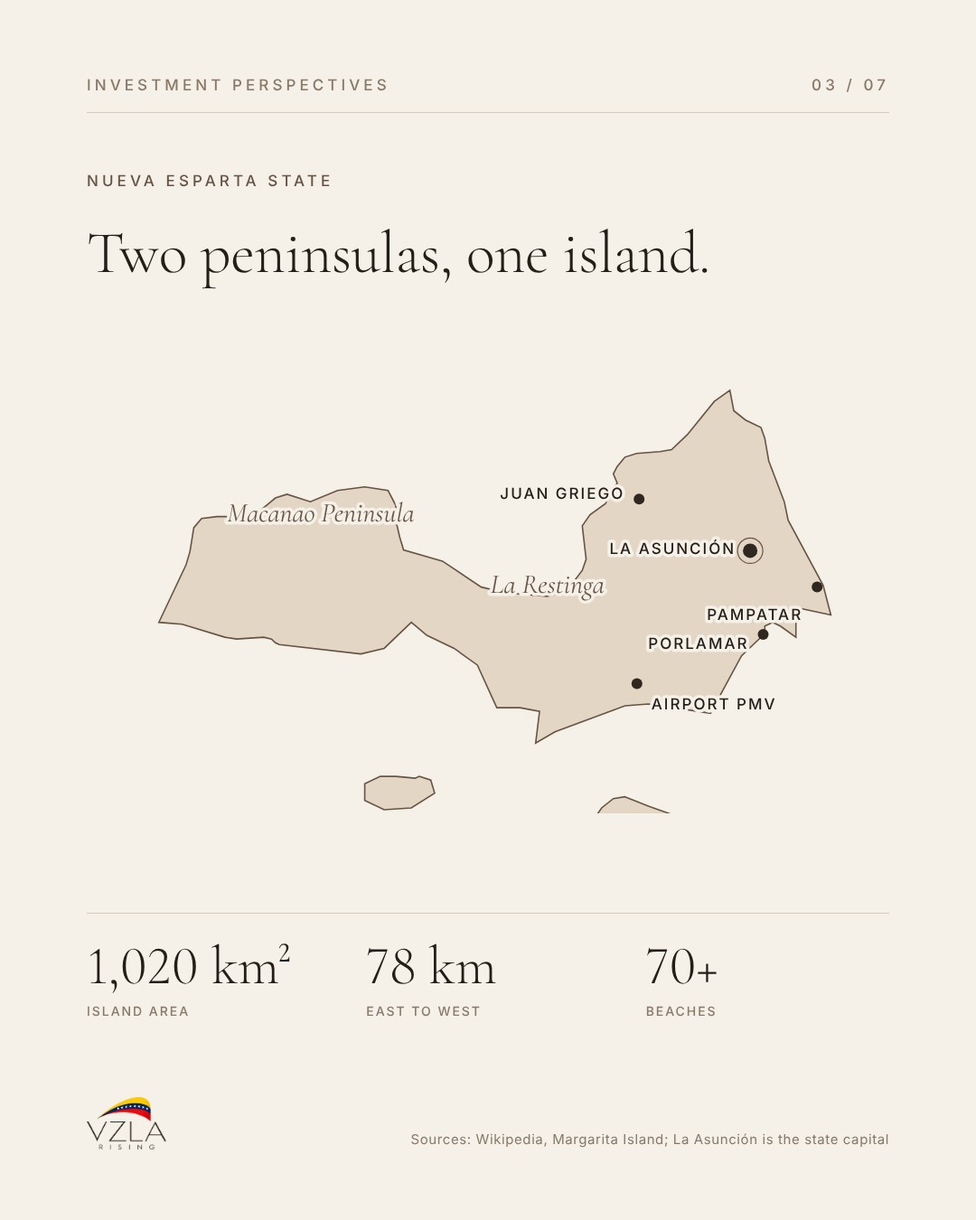
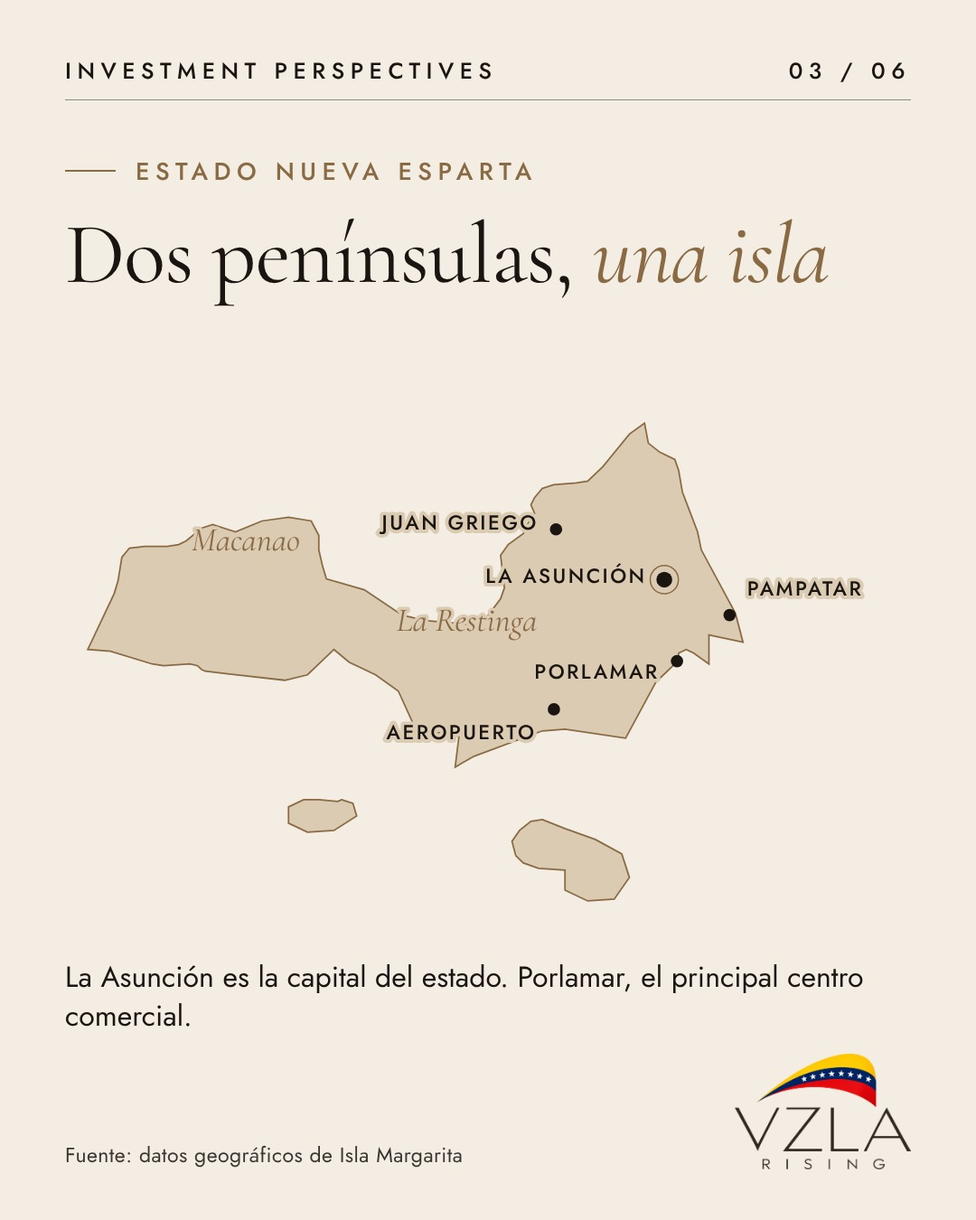
v3 carousels: full-bleed photos, hospitality type, Spanish-first captions
Claude-Session: https://claude.ai/code/session_01KPCgjeTyZ2Nz8Xz9vAXGjv

diff --git a/templates/engine-v3/posts2.py b/templates/engine-v3/posts2.py
@@ -1,0 +1,145 @@
+import asyncio
+from pathlib import Path
+from eco2 import *
+
+OUT = Path('/home/claude/build/out3')
+
+# ---------------- POST 01 - Venezuela Uncovered ----------------
+L1, T1 = 'Venezuela Uncovered', 6
+p1 = [
+ ('slide01', slide('photo', L1, 1, T1, f'''<div class=txt>
+  <div class=kick>Seis paisajes, un país</div>
+  <div class=h style="font-size:138px">Venezuela es <em>más</em><br>que los titulares</div>
+  <div class=p>Tepuyes, arrecifes, cumbres andinas y llanos sin fin.</div></div>''',
+  'Cerro Autana, Amazonas. Foto: Frank Araujo / Pexels', 'pexels-12693427-autana.jpg', '58% 50%')),
+ ('slide02', slide('photo', L1, 2, T1, f'''<div class=txt>
+  <div class=kick>Salto Ángel, Canaima</div>
+  <div class=num style="font-size:330px">979<small>m</small></div>
+  <div class=h style="font-size:84px;margin-top:34px">Una de las cascadas <em>más altas</em> del mundo</div>
+  <div class=p>807 m de caída libre desde el Auyán-tepui. Canaima es Patrimonio UNESCO desde 1994.</div></div>''',
+  'Fuentes: UNESCO; medición Robertson, 1949. Foto: Ederik Palencia Ferreira / Pexels', 'pexels-7360544-canaima.jpg', '50% 50%')),
+ ('slide03', slide('photo', L1, 3, T1, f'''<div class=txt>
+  <div class=kick>Archipiélago Los Roques</div>
+  <div class=num style="font-size:250px">221.120<small>ha</small></div>
+  <div class=h style="font-size:84px;margin-top:34px">Un parque nacional <em>de coral</em> desde 1972</div>
+  <div class=p>Unas 50 islas y cerca de 292 cayos. Humedal Ramsar desde 1996.</div></div>''',
+  'Fuente: Ramsar Sites Information Service. Foto: Fuka jaz / Pexels', 'pexels-18558367-losroques-aerial.jpg', '50% 22%')),
+ ('slide04', slide('photo', L1, 4, T1, f'''<div class=txt>
+  <div class=kick>Los Andes, Mérida</div>
+  <div class=num style="font-size:300px">4.978<small>m</small></div>
+  <div class=h style="font-size:84px;margin-top:34px">El Pico Bolívar, <em>el techo</em> de Venezuela</div>
+  <div class=p>Del nivel del mar a casi cinco kilómetros de altura, en un solo país.</div></div>''',
+  'Fuente: Pérez et al., Interciencia 2005 (GPS). Foto: Pedro Romero / Unsplash', 'unsplash-LoBZJg-390E-merida-valley.jpg', '50% 30%')),
+ ('slide05', slide('photo', L1, 5, T1, f'''<div class=txt>
+  <div class=kick>Los Llanos</div>
+  <div class=h style="font-size:128px">Sabanas hasta <em>el horizonte</em></div>
+  <div class=p>La tierra del llanero: ganado, ríos y cielos enormes entre los Andes y el Orinoco.</div></div>''',
+  'Elorza, Apure. Foto: Jean-Luc Crucifix / Unsplash', 'unsplash-19tQv51x4-A-llanos.jpg', '50% 50%')),
+ ('slide06', slide('cream', L1, 6, T1, f'''
+  <div style="position:absolute;left:72px;right:72px;top:160px">
+   <div class=kick>Uno de los 17 países megadiversos</div>
+   <div class=h style="font-size:96px">¿Cuál visitarías <em>primero?</em></div></div>
+  <div style="position:absolute;left:72px;top:420px">{venmap([('roques','Los Roques','start'),('margarita','Margarita','start'),('bolivar','Andes','end'),('llanos','Llanos','end'),('angel','Canaima','end'),('roraima','Roraima','start')])}</div>
+  <div style="position:absolute;left:72px;right:72px;top:1050px;font:400 32px/1.35 Jost">Cuéntanos en los comentarios y guarda el post para tu próximo viaje.</div>''',
+  'Fuentes: Conservation International; CIA World Factbook')),
+]
+
+# ---------------- POST 02 - Venezuela in Motion ----------------
+L2, T2 = 'Venezuela in Motion', 5
+p2 = [
+ ('slide01', slide('photo', L2, 1, T2, f'''<div class=txt>
+  <div class=kick>Negocios</div>
+  <div class=h style="font-size:146px">El capital <em>llega</em> a Caracas</div>
+  <div class=p>25 fondos, una fintech de US$100 millones y nuevas rutas aéreas. Qué se mueve y qué falta probar.</div></div>''',
+  'Caracas. Foto: Andy Art and design / Pexels', 'pexels-29518260-caracas-sunset.jpg', '50% 60%')),
+ ('slide02', slide('photo', L2, 2, T2, f'''<div class=txt>
+  <div class=kick>Startup Venezuela Summit</div>
+  <div class=num style="font-size:330px">25</div>
+  <div class=h style="font-size:84px;margin-top:30px">fondos de inversión en <em>la sexta edición</em></div>
+  <div class=p>Del 21 al 23 de octubre, inaugurada por Richard Branson. Unos 40 invitados internacionales, frente a 10 en 2023.</div></div>''',
+  'Fuente: Bloomberg Línea, oct. 2026 (cifras de los organizadores). Foto: Joaquim Pacheco / Pexels', 'pexels-38556235-caracas-aerial.jpg', '40% 50%')),
+ ('slide03', slide('cream', L2, 3, T2, f'''
+  <div style="position:absolute;left:72px;right:72px;top:170px">
+   <div class=kick>Fintech</div>
+   <div class=h style="font-size:96px">Cashea levantó</div>
+   <div class=num style="font-size:300px;margin-top:20px">US$100<small>M</small></div>
+   <div class=lab style="margin-top:30px">En 2026, en dos rondas</div>
+   <div style="display:flex;height:70px;margin-top:40px"><div style="width:40%;background:{EARTH}"></div><div style="width:60%;background:{INK}"></div></div>
+   <div style="display:flex;margin-top:18px;font:500 30px Jost"><div style="width:40%">Serie A · 40M<div style="font:400 26px Jost;opacity:.7">marzo</div></div><div style="width:60%">Serie B · 60M<div style="font:400 26px Jost;opacity:.7">junio</div></div></div>
+   <div class=p style="margin-top:56px">Más de <b>10 millones</b> de cuentas y <b>40.000</b> comercios aliados.</div></div>''',
+  'Fuente: Intelligent CIO, ago. 2026 (cifras de la empresa)').replace('Serie A · 40M','Serie A - 40M').replace('Serie B · 60M','Serie B - 60M')),
+ ('slide04', slide('photo', L2, 4, T2, f'''<div class=txt style="bottom:220px">
+  <div class=kick>Conectividad aérea</div>
+  <div class=h style="font-size:92px;margin-bottom:34px">Vuelven <em>los vuelos</em></div>
+  <div class=row><div style="flex:1"><div class=tag>Operando</div><div class=t>Qatar Airways, Doha - Caracas</div><div class=d>Desde el 22 de julio</div></div></div>
+  <div class=row><div style="flex:1"><div class=tag>Operando</div><div class=t>Avianca, Bogotá - Caracas</div><div class=d>Desde el 1 de septiembre</div></div></div>
+  <div class=row><div style="flex:1"><div class=tag>Anunciado</div><div class=t>Copa, Panamá - Margarita</div><div class=d>Desde el 26 de noviembre</div></div></div>
+  <div class=row><div style="flex:1"><div class=tag>Por confirmar</div><div class=t>United y JetBlue desde EE.UU.</div><div class=d>Pendientes de autorización</div></div></div></div>''',
+  'Fuente: Bloomberg Línea, 7 oct. 2026. Foto: Juan Carlos Fernández Alemán / Pexels', 'pexels-39879583-avila.jpg', '50% 30%',
+  veil='background:linear-gradient(180deg,rgba(12,9,6,.5) 0%,rgba(12,9,6,.15) 18%,rgba(12,9,6,.72) 42%,rgba(12,9,6,.92) 100%)')),
+ ('slide05', slide('dark', L2, 5, T2, f'''
+  <div style="position:absolute;left:72px;right:72px;top:170px">
+   <div class=kick>Nuestra lectura</div>
+   <div class=h style="font-size:100px;margin-bottom:46px">El impulso es real. <em>La debida diligencia</em> también.</div>
+   <div class=row><div class=n>01</div><div><div class=t>Cifras de empresas y organizadores</div><div class=d>Señales útiles, no datos auditados.</div></div></div>
+   <div class=row><div class=n>02</div><div><div class=t>Anunciado no es operativo</div><div class=d>Varias rutas esperan autorización.</div></div></div>
+   <div class=row><div class=n>03</div><div><div class=t>Cumplimiento primero</div><div class=d>Sanciones y asesoría legal en cada operación.</div></div></div>
+   <div class=h style="font-size:58px;margin-top:40px;color:{GOLD}"><em>¿Qué necesitarías ver para invertir?</em></div></div>''',
+  'No es asesoría de inversión')),
+]
+
+# ---------------- POST 03 - Investment Perspectives ----------------
+L3, T3 = 'Investment Perspectives', 6
+p3 = [
+ ('slide01', slide('photo', L3, 1, T3, f'''<div class=txt>
+  <div class=kick>Destinos</div>
+  <div class=h style="font-size:140px">Isla Margarita, ¿el Caribe <em>subestimado?</em></div>
+  <div class=p>Playas, historia de puerto libre y un nuevo vuelo a Panamá.</div></div>''',
+  'Isla Margarita. Foto: RITRATTO VISUAL / Pexels', 'pexels-32699741-margarita-aerial.jpg', '50% 60%')),
+ ('slide02', slide('photo', L3, 2, T3, f'''<div class=txt>
+  <div class=kick>Pampatar, Nueva Esparta</div>
+  <div class=num style="font-size:300px">70+</div>
+  <div class=h style="font-size:84px;margin-top:30px">playas en <em>78 km</em> de isla</div>
+  <div class=p>1.020 km² y una larga tradición de destino turístico venezolano.</div></div>''',
+  'Fuente: datos geográficos de Isla Margarita. Foto: Vika Glitter / Pexels', 'pexels-26241556-pampatar.jpg', '30% 50%')),
+ ('slide03', slide('cream', L3, 3, T3, f'''
+  <div style="position:absolute;left:72px;right:72px;top:170px">
+   <div class=kick>Estado Nueva Esparta</div>
+   <div class=h style="font-size:96px">Dos penínsulas, <em>una isla</em></div></div>
+  <div style="position:absolute;left:72px;top:440px">{margmap([('asuncion','La Asunción','end',-4,'cap'),('porlamar','Porlamar','end',12,'dot'),('pampatar','Pampatar','start',-30,'dot'),('juangriego','Juan Griego','end',-8,'dot'),('airport','Aeropuerto','end',26,'dot'),('macanao','Macanao','',0,'area'),('restinga','La Restinga','',12,'area')])}</div>
+  <div style="position:absolute;left:72px;right:72px;top:1060px;font:400 32px/1.35 Jost">La Asunción es la capital del estado. Porlamar, el principal centro comercial.</div>''',
+  'Fuente: datos geográficos de Isla Margarita')),
+ ('slide04', slide('photo', L3, 4, T3, f'''<div class=txt>
+  <div class=kick>Conectividad</div>
+  <div class=num style="font-size:300px">3<small>vuelos / semana</small></div>
+  <div class=h style="font-size:84px;margin-top:30px">Panamá - Porlamar <em>desde el 26 de noviembre</em></div>
+  <div class=p>Copa conecta la isla con su hub regional: martes, jueves y domingo. Ruta anunciada.</div></div>''',
+  'Fuentes: El Diario, ago. 2026; Bloomberg Línea, oct. 2026. Foto: RITRATTO VISUAL / Pexels', 'pexels-32699745-margarita-lighthouse.jpg', '50% 20%')),
+ ('slide05', slide('photo', L3, 5, T3, f'''<div class=txt style="bottom:220px">
+  <div class=kick>Hipótesis, no pronósticos</div>
+  <div class=h style="font-size:92px;margin-bottom:34px">Dónde podría estar <em>la oportunidad</em></div>
+  <div class=row><div class=n>01</div><div><div class=t>Reposicionar antes que construir</div><div class=d>Renovar hoteles existentes.</div></div></div>
+  <div class=row><div class=n>02</div><div><div class=t>Boutique de baja densidad</div><div class=d>Macanao y La Restinga, con el paisaje.</div></div></div>
+  <div class=row><div class=n>03</div><div><div class=t>Puerta al Caribe</div><div class=d>Itinerarios con Los Roques.</div></div></div></div>''',
+  'Análisis editorial VZLA Rising. Foto: RITRATTO VISUAL / Pexels', 'pexels-32690921-nueva-esparta.jpg', '55% 50%',
+  veil='background:linear-gradient(180deg,rgba(12,9,6,.5) 0%,rgba(12,9,6,.15) 18%,rgba(12,9,6,.72) 45%,rgba(12,9,6,.92) 100%)')),
+ ('slide06', slide('dark', L3, 6, T3, f'''
+  <div style="position:absolute;left:72px;right:72px;top:170px">
+   <div class=kick>Antes de invertir</div>
+   <div class=h style="font-size:100px;margin-bottom:40px">Seis cosas <em>que verificar</em></div>
+   <div class=row style="padding:20px 0"><div class=n>01</div><div class=t>Títulos de propiedad y registro</div></div>
+   <div class=row style="padding:20px 0"><div class=n>02</div><div class=t>Sanciones y cumplimiento</div></div>
+   <div class=row style="padding:20px 0"><div class=n>03</div><div class=t>Agua y electricidad</div></div>
+   <div class=row style="padding:20px 0"><div class=n>04</div><div class=t>Zonificación costera y permisos</div></div>
+   <div class=row style="padding:20px 0"><div class=n>05</div><div class=t>Moneda, pagos y repatriación</div></div>
+   <div class=row style="padding:20px 0"><div class=n>06</div><div class=t>Demanda real: llegadas y ocupación</div></div>
+   <div class=h style="font-size:56px;margin-top:30px;color:{GOLD}"><em>¿Qué haría a Margarita invertible para ti?</em></div></div>''',
+  'Checklist editorial. No es asesoría legal ni financiera')),
+]
+
+POSTS = {'post01': p1, 'post02': p2, 'post03': p3}
+async def main():
+    for k, v in POSTS.items():
+        await render(v, OUT / k)
+        sheet(OUT / k, [n for n, _ in v], OUT / f'{k}_sheet.jpg')
+asyncio.run(main())

diff --git a/templates/engine-v3/eco2.py b/templates/engine-v3/eco2.py
@@ -1,0 +1,116 @@
+"""VZLA Rising v3 - hospitality editorial carousel. 1080x1350, phone-first.
+Full-bleed real photo + gradient veil, text anchored low, Cormorant headlines, Jost text."""
+import asyncio, json
+from pathlib import Path
+from playwright.async_api import async_playwright
+
+LOGO = Path('/home/claude/brand/logo')
+PH = Path('/home/claude/vzla-rising-instagram-content-media-repository/photos')
+F = '/home/claude/build/node_modules/@fontsource'
+MAPS = json.load(open('/home/claude/build/maps.json'))
+GOLD, INK, CREAM, ESP, EARTH = '#E9C46A', '#1A1511', '#F3EDE3', '#231C16', '#8A6A44'
+
+def ff(fam, w, file, style='normal'):
+    return f"@font-face{{font-family:'{fam}';font-weight:{w};font-style:{style};src:url('file://{F}/{file}')}}"
+
+CSS = '\n'.join([
+ ff('Cormorant', 300, 'cormorant-garamond/files/cormorant-garamond-latin-300-normal.woff2'),
+ ff('Cormorant', 400, 'cormorant-garamond/files/cormorant-garamond-latin-400-normal.woff2'),
+ ff('Cormorant', 500, 'cormorant-garamond/files/cormorant-garamond-latin-500-normal.woff2'),
+ ff('Cormorant', 400, 'cormorant-garamond/files/cormorant-garamond-latin-400-italic.woff2', 'italic'),
+ ff('Cormorant', 300, 'cormorant-garamond/files/cormorant-garamond-latin-300-italic.woff2', 'italic'),
+ ff('Jost', 300, 'jost/files/jost-latin-300-normal.woff2'),
+ ff('Jost', 400, 'jost/files/jost-latin-400-normal.woff2'),
+ ff('Jost', 500, 'jost/files/jost-latin-500-normal.woff2'),
+]) + """
+*{margin:0;padding:0;box-sizing:border-box;font-variant-numeric:lining-nums;font-feature-settings:'lnum' 1}
+html,body{width:1080px;height:1350px}
+body{font-family:'Jost',sans-serif;-webkit-font-smoothing:antialiased}
+.s{position:relative;width:1080px;height:1350px;overflow:hidden;color:var(--fg);background:var(--bg)}
+.bg{position:absolute;inset:0;background-size:cover}
+.veil{position:absolute;inset:0;background:linear-gradient(180deg,rgba(12,9,6,.50) 0%,rgba(12,9,6,0) 14%,rgba(12,9,6,.38) 28%,rgba(12,9,6,.70) 48%,rgba(12,9,6,.84) 72%,rgba(12,9,6,.92) 100%)}
+.top{position:absolute;top:60px;left:72px;right:72px;display:flex;justify-content:space-between;
+  font:500 25px 'Jost';letter-spacing:.26em;text-transform:uppercase;z-index:3}
+.top.ph{text-shadow:0 1px 14px rgba(0,0,0,.45)}
+.rule{position:absolute;top:110px;left:72px;right:72px;height:1px;background:var(--fg);opacity:.45;z-index:3}
+.foot{position:absolute;left:72px;right:72px;bottom:56px;display:flex;justify-content:space-between;align-items:flex-end;z-index:3}
+.foot img{height:128px;display:block}
+.src{font:400 23px/1.35 'Jost';letter-spacing:.02em;opacity:.85;max-width:640px}
+.txt{position:absolute;left:72px;right:72px;bottom:240px;z-index:2}
+.kick{font:500 27px 'Jost';letter-spacing:.24em;text-transform:uppercase;color:var(--acc);margin-bottom:26px}
+.h{font-family:'Cormorant',serif;font-weight:400;line-height:.98;letter-spacing:-.012em}
+.h em{font-style:italic;color:var(--acc)}
+.num{font-family:'Cormorant',serif;font-weight:300;line-height:.8;letter-spacing:-.035em}
+.num small{font-size:.36em;letter-spacing:0;margin-left:10px}
+.p{font:400 40px/1.36 'Jost';margin-top:30px;max-width:900px}
+.p b{font-weight:500;color:var(--acc)}
+.ph .h,.ph .num,.ph .p{text-shadow:0 2px 24px rgba(0,0,0,.35)}
+.lab{font:500 24px/1.3 'Jost';letter-spacing:.18em;text-transform:uppercase}
+.row{display:flex;gap:28px;align-items:baseline;padding:26px 0;border-top:1px solid var(--line)}
+.row .n{font:300 54px 'Cormorant';color:var(--acc);width:70px;flex:none}
+.row .t{font:500 38px/1.25 'Jost'}
+.row .d{font:400 30px/1.35 'Jost';opacity:.85;margin-top:6px}
+.ph .kick{color:#fff;text-shadow:0 1px 16px rgba(0,0,0,.6)}
+.kick:before{content:'';display:inline-block;width:56px;height:2px;background:var(--acc);vertical-align:middle;margin-right:22px;position:relative;top:-4px}
+.tag{font:500 22px 'Jost';letter-spacing:.18em;text-transform:uppercase;color:var(--acc);margin-bottom:8px}
+"""
+
+THEME = {
+ 'photo': dict(bg='#111', fg='#FFFFFF', acc=GOLD, line='rgba(255,255,255,.35)', logo='white-colorflag'),
+ 'dark':  dict(bg=ESP, fg='#F6F1EA', acc=GOLD, line='rgba(246,241,234,.22)', logo='white-colorflag'),
+ 'cream': dict(bg=CREAM, fg=INK, acc=EARTH, line='rgba(26,21,17,.18)', logo='espresso-colorflag'),
+}
+
+def slide(theme, label, n, total, inner, src='', photo=None, pos='50% 50%', veil=None):
+    t = THEME[theme]
+    vars_ = f"--bg:{t['bg']};--fg:{t['fg']};--acc:{t['acc']};--line:{t['line']}"
+    bg = ''
+    if photo:
+        bg = f'<div class=bg style="background-image:url(\'file://{PH / photo}\');background-position:{pos}"></div>'
+        bg += f'<div class=veil{"" if not veil else ""} style="{veil or ""}"></div>'
+    cls = 's ph' if photo else 's'
+    return f"""<!doctype html><html><head><meta charset=utf-8><style>{CSS}</style></head><body>
+<div class="{cls}" style="{vars_}">{bg}
+<div class="top{' ph' if photo else ''}"><span>{label}</span><span>{n:02d} / {total:02d}</span></div><div class=rule></div>
+{inner}
+<div class=foot><div class=src>{src}</div><img src="file://{LOGO}/vzla-rising-wordmark-{t['logo']}.png"></div>
+</div></body></html>"""
+
+def venmap(marks, w=936, h=640):
+    m = MAPS['ven']; out = ''
+    for key, label, anchor in marks:
+        x, y = m['pts'][key]; tx = x + (26 if anchor == 'start' else -26)
+        out += f'<circle cx="{x}" cy="{y}" r="9" fill="{INK}"/><circle cx="{x}" cy="{y}" r="17" fill="none" stroke="{EARTH}" stroke-width="1.5"/>'
+        out += f'<text x="{tx}" y="{y+8}" text-anchor="{anchor}" font-family="Jost" font-weight="500" font-size="25" letter-spacing="3" fill="{INK}" stroke="{CREAM}" stroke-width="8" paint-order="stroke" stroke-linejoin="round">{label.upper()}</text>'
+    return f'''<svg width="{w}" height="{h}" viewBox="40 90 820 560"><path d="{m['nb']}" fill="#E7DED1" stroke="#D6C8B4" stroke-width="1"/>
+<path d="{m['d']}" fill="#DCCBB3" stroke="{EARTH}" stroke-width="1.8"/>{out}</svg>'''
+
+def margmap(marks, w=936, h=560):
+    m = MAPS['marg']; out = ''
+    for key, label, anchor, dy, style in marks:
+        x, y = m['pts'][key]
+        if style == 'area':
+            out += f'<text x="{x}" y="{y+dy}" text-anchor="middle" font-family="Cormorant" font-style="italic" font-size="38" fill="{EARTH}" stroke="#DCCBB3" stroke-width="7" paint-order="stroke">{label}</text>'; continue
+        tx = x + (20 if anchor == 'start' else -20)
+        out += f'<circle cx="{x}" cy="{y}" r="{9 if style=="cap" else 7}" fill="{INK}"/>'
+        if style == 'cap': out += f'<circle cx="{x}" cy="{y}" r="16" fill="none" stroke="{EARTH}" stroke-width="1.5"/>'
+        out += f'<text x="{tx}" y="{y+8+dy}" text-anchor="{anchor}" font-family="Jost" font-weight="500" font-size="23" letter-spacing="2.5" fill="{INK}" stroke="#DCCBB3" stroke-width="8" paint-order="stroke" stroke-linejoin="round">{label.upper()}</text>'
+    return f'''<svg width="{w}" height="{h}" viewBox="50 170 960 440"><path d="{m['d']}" fill="#DCCBB3" stroke="{EARTH}" stroke-width="1.8"/>{out}</svg>'''
+
+async def render(jobs, outdir):
+    outdir.mkdir(parents=True, exist_ok=True)
+    async with async_playwright() as p:
+        b = await p.chromium.launch(executable_path='/usr/bin/google-chrome')
+        pg = await b.new_page(viewport={'width': 1080, 'height': 1350})
+        for name, h in jobs:
+            f = outdir / f'{name}.html'; f.write_text(h)
+            await pg.goto('file://' + str(f)); await pg.evaluate('document.fonts.ready'); await pg.wait_for_timeout(200)
+            await pg.screenshot(path=str(outdir / f'{name}.jpg'), type='jpeg', quality=92)
+        await b.close()
+
+def sheet(outdir, names, path):
+    from PIL import Image
+    ims = [Image.open(outdir / f'{n}.jpg').resize((432, 540)) for n in names]
+    s = Image.new('RGB', (440 * len(ims) - 8, 540), 'white')
+    for i, im in enumerate(ims): s.paste(im, (i * 440, 0))
+    s.save(path, quality=88)

diff --git a/2026-11/post03_isla_margarita/caption.md b/2026-11/post03_isla_margarita/caption.md
@@ -1,28 +1,24 @@
-# Post 03 - Isla Margarita: An Underrated Caribbean Destination?
+# Post 03 - Isla Margarita, ¿el Caribe subestimado?
 
-Pillar: Investment Perspectives - Publication: Fri 6 Nov 2026, 18:00 Europe/Rome (12:00 Miami)
+Pillar: Investment Perspectives - Fri 6 Nov 2026, 18:00 Europe/Rome (12:00 Miami) - 6 slides
 
 ## Caption
 
-78 km of island, more than 70 beaches, and a new link to Panama from 26 November.
+Más de 70 playas en 78 km de isla, y un nuevo vuelo a Panamá desde el 26 de noviembre. 🇻🇪
 
-Isla Margarita has long been Venezuela's best-known beach destination, with a free-port history dating back to the 1970s. Copa Airlines plans three weekly flights between Panama City and Porlamar, connecting the island to one of the region's main hubs.
+Isla Margarita es desde hace décadas el gran destino de playa de Venezuela, con historia de puerto libre. Copa anunció tres vuelos semanales entre Panamá y Porlamar, que conectan la isla con uno de los principales hubs de la región.
 
-Where could the opportunity be? Our hypotheses: repositioning existing hotels before building new ones, low-density nature stays around Macanao and La Restinga, and itineraries that combine Margarita with Los Roques.
+¿Dónde podría estar la oportunidad? Nuestras hipótesis: reposicionar hoteles existentes antes que construir, estancias boutique de baja densidad en Macanao y La Restinga, e itinerarios que unan Margarita con Los Roques.
 
-Before any of that, the basics: land title, sanctions compliance, water and power, permits, currency and real demand data.
-
-What would make Margarita investable for you?
-
-🇻🇪
-
-Isla Margarita: 78 km, más de 70 playas y, desde el 26 de noviembre, vuelos con Panamá (Copa, tres por semana). Vemos oportunidades en reposicionar hoteles existentes y en estancias de baja densidad en Macanao y La Restinga. Antes, verificar títulos, sanciones, servicios, permisos y datos reales de demanda.
+Antes de todo, lo básico: títulos, sanciones, servicios, permisos, moneda y datos reales de demanda.
 
 ¿Qué haría a Margarita invertible para ti?
 
-#IslaMargarita #HospitalityInvestment #Venezuela
+EN | 70+ beaches, 78 km of island and a new Panama link from 26 November. Reposition before building, low-density boutique stays, and due diligence first.
+
+#IslaMargarita #Hospitality #Venezuela
 
 ## First comment
 
-Sources: Margarita Island geography (Wikipedia); El Diario, Aug 2026 and Bloomberg Línea, Oct 2026 (Copa Panama-Porlamar route, announced). Hypotheses and checklist are VZLA Rising editorial analysis, not investment, legal or financial advice.
-Photos: RITRATTO VISUAL, Vika Glitter (Pexels).
+Fuentes / Sources: datos geográficos de Isla Margarita (Wikipedia); El Diario, ago. 2026 y Bloomberg Línea, oct. 2026 (ruta Copa Panamá-Porlamar, anunciada). Hipótesis y checklist: análisis editorial VZLA Rising, no es asesoría de inversión, legal ni financiera.
+Fotos: RITRATTO VISUAL, Vika Glitter (Pexels).

diff --git a/2026-11/post02_capital_comes_to_caracas/caption.md b/2026-11/post02_capital_comes_to_caracas/caption.md
@@ -1,32 +1,24 @@
-# Post 02 - Capital comes to Caracas
+# Post 02 - El capital llega a Caracas
 
-Pillar: Venezuela in Motion - Publication: Wed 4 Nov 2026, 18:00 Europe/Rome (12:00 Miami)
+Pillar: Venezuela in Motion - Wed 4 Nov 2026, 18:00 Europe/Rome (12:00 Miami) - 5 slides
 
 ## Caption
 
-Twenty-five investment funds gathered in Caracas in October.
+25 fondos de inversión se reunieron en Caracas en octubre. 🇻🇪
 
-The sixth Startup Venezuela Summit (21-23 October) was opened by Richard Branson and, according to the organisers, brought around 40 international guests, up from 10 at the first edition in 2023.
+La sexta edición del Startup Venezuela Summit (21 al 23 de octubre) fue inaugurada por Richard Branson y reunió, según los organizadores, a unos 40 invitados internacionales, frente a 10 en 2023.
 
-The money is not only talk. Fintech Cashea raised US$100 million in 2026 across two rounds and reports more than 10 million consumer accounts.
+El dinero no es solo conversación: la fintech Cashea levantó US$100 millones en 2026 y reporta más de 10 millones de cuentas. Y vuelven los vuelos: Qatar Airways y Avianca ya operan a Caracas, Copa unirá Panamá con Margarita desde el 26 de noviembre.
 
-Air links are returning too. Qatar Airways and Avianca already fly to Caracas, Copa plans to connect Panama with Margarita from 26 November, while other US routes still await approvals.
+Nuestra lectura: el impulso es real, pero muchas cifras vienen de empresas y organizadores. Primero, la debida diligencia.
 
-Our read: the momentum is real, but most figures come from companies and organisers. Due diligence and compliance come first.
+¿Qué necesitarías ver para invertir en Venezuela?
 
-What would you need to see before investing in Venezuela?
-
-🇻🇪
-
-Veinticinco fondos de inversión se reunieron en Caracas en octubre, en la sexta edición del Startup Venezuela Summit, inaugurada por Richard Branson. Cashea levantó US$100 millones en 2026 y vuelven rutas aéreas, aunque algunas siguen pendientes de aprobación.
-
-El impulso es real. La debida diligencia, también.
-
-¿Qué necesitarías ver antes de invertir en Venezuela?
+EN | 25 investment funds met in Caracas in October. Cashea raised US$100M in 2026 and air links are returning. Momentum is real; due diligence comes first.
 
 #Venezuela #Startups #Caracas
 
 ## First comment
 
-Sources: Bloomberg Línea, Oct 2026 (Startup Venezuela Summit, organiser figures; air routes, 7 Oct 2026); Intelligent CIO, Aug 2026 (Cashea, company figures). Not investment advice.
-Photos: Andy Art and design, Juan Carlos Fernández Alemán (Pexels).
+Fuentes / Sources: Bloomberg Línea, oct. 2026 (Startup Venezuela Summit, cifras de los organizadores; rutas aéreas, 7 oct. 2026); Intelligent CIO, ago. 2026 (Cashea, cifras de la empresa). No es asesoría de inversión.
+Fotos: Andy Art and design, Joaquim Pacheco, Juan Carlos Fernández Alemán (Pexels).

diff --git a/2026-11/post01_venezuela_uncovered/caption.md b/2026-11/post01_venezuela_uncovered/caption.md
@@ -1,30 +1,24 @@
-# Post 01 - Venezuela: More Than You Imagine
+# Post 01 - Venezuela es más que los titulares
 
-Pillar: Venezuela Uncovered - Publication: Mon 2 Nov 2026, 18:00 Europe/Rome (12:00 Miami)
+Pillar: Venezuela Uncovered - Mon 2 Nov 2026, 18:00 Europe/Rome (12:00 Miami) - 6 slides
 
 ## Caption
 
-Most people picture Venezuela through headlines. The landscape tells a different story.
+Venezuela es más que los titulares. 🇻🇪
 
-In a single country, Angel Falls drops 979 m from a tepui in Canaima National Park. Los Roques protects 221,120 hectares of reefs, islands and cays. Pico Bolívar rises to 4,978 m in the Andes. And in between stretch the vast plains of Los Llanos.
+En un solo país: el Salto Ángel cae 979 m desde un tepuy en Canaima, Los Roques protege 221.120 hectáreas de arrecifes e islas, el Pico Bolívar llega a 4.978 m y, en medio, los Llanos se abren hasta el horizonte.
 
-Venezuela is one of the world's 17 megadiverse countries, with about 2,800 km of coastline.
-
-This is where VZLA Rising begins: discovering the places, the transformation and the opportunities, facts first.
-
-Which of these would you visit first?
-
-🇻🇪
-
-Muchos imaginan Venezuela a través de los titulares. El paisaje cuenta otra historia.
-
-El Salto Ángel cae 979 m desde un tepuy en Canaima. Los Roques protege 221.120 hectáreas de arrecifes e islas. El Pico Bolívar alcanza 4.978 m. Y en medio, los Llanos. Uno de los 17 países megadiversos del mundo.
+Es uno de los 17 países megadiversos del planeta. Aquí empieza VZLA Rising: descubrir sus lugares, su transformación y sus oportunidades, con datos.
 
 ¿Cuál visitarías primero?
 
-#Venezuela #TravelVenezuela #VZLARising
+EN | Venezuela is more than the headlines. Angel Falls drops 979 m in Canaima, Los Roques protects 221,120 ha of reefs, Pico Bolívar reaches 4,978 m. One of the world's 17 megadiverse countries.
+
+Which would you visit first?
+
+#Venezuela #ViajarPorVenezuela #VZLARising
 
 ## First comment
 
-Sources: UNESCO World Heritage Centre (Canaima); Robertson survey 1949 (Angel Falls height); Ramsar Sites Information Service (Los Roques); Pérez et al., Interciencia 2005 (Pico Bolívar GPS survey); CIA World Factbook (coastline); Conservation International (megadiverse countries).
-Photos: Ederik Palencia Ferreira, Fuka jaz (Pexels); Pedro Romero (Unsplash).
+Fuentes / Sources: UNESCO (Canaima); medición Robertson 1949 (Salto Ángel); Ramsar Sites Information Service (Los Roques); Pérez et al., Interciencia 2005 (Pico Bolívar); Conservation International (países megadiversos).
+Fotos: Frank Araujo, Ederik Palencia Ferreira, Fuka jaz (Pexels); Pedro Romero, Jean-Luc Crucifix (Unsplash).
